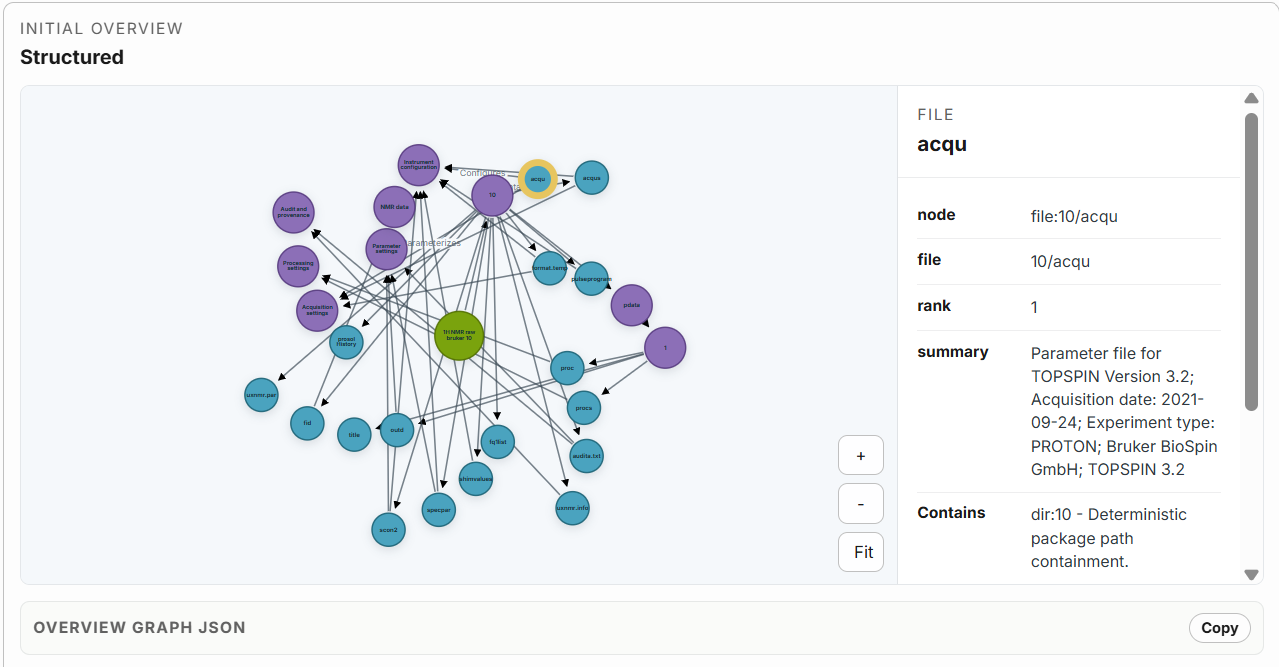
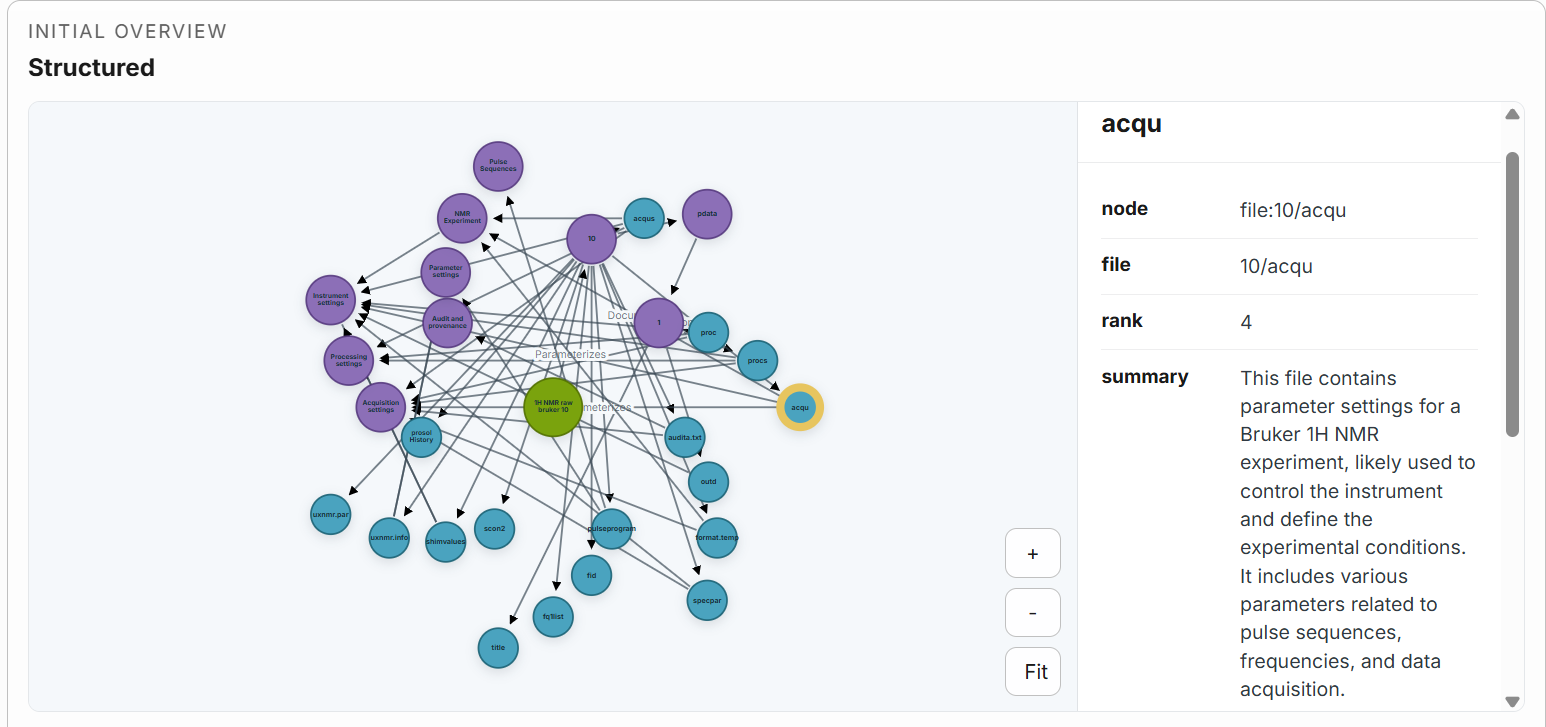
feat: enhance text-quality gate functionality with manual line protection and update dataset overview figure description

diff --git a/docs/thesis/sections/04_methodical_approach.tex b/docs/thesis/sections/04_methodical_approach.tex
@@ -115,15 +115,22 @@ The score is reduced for lines dominated by digits or symbols, dense strings wit
 These features are detected with regular-expression patterns and character-level statistics and are translated into additive score contributions.
 Textual and structured metadata features add to the score, while noise-like features subtract from it.
 A line is kept only if this final score reaches the configured threshold.
+Before the drop decision is applied, users can manually protect individual lines in the preview.
+Protected lines are retained for downstream chunking even if the heuristic gate would otherwise classify them as noise.
+The gate parameters are also exposed in the interface.
+Users can adjust the symbol-ratio threshold, digit-ratio threshold, minimum keep-score threshold, and structured-text bonus.
+These controls make the filtering behavior tunable so preprocessing can be adapted to different types of instrument files.
 This design removes low-information technical noise while preserving readable metadata records, including Bruker-style parameter lines that contain symbols, numbers, or key-value syntax.
 
 \Cref{fig:text-quality-gate} shows the corresponding preview in the workflow interface for the Bruker acquisition-parameter file \texttt{10/acqu}.
 The preview reports the selected file, the total number of source lines, the number of filtered lines, and the number of protected lines.
-Each line is displayed with its gate decision.
+Each line is displayed with its gate decision, and individual lines can be protected before filtering is applied.
 Kept lines are shown as readable parameter records, and the decision tooltip exposes the final score together with the feature labels that contributed to it.
+The interface also exposes the main gate parameters, including the symbol-ratio threshold, digit-ratio threshold, keep-score threshold, and structured-text bonus.
 In the example, the header records and Bruker parameter assignments are kept even though they contain symbols and numeric values.
 By contrast, dense numeric array lines are marked as \texttt{DROP}.
-The figure therefore illustrates that the gate removes low-information numeric content while preserving structured acquisition metadata for downstream chunking.
+The figure therefore illustrates that the gate removes low-information numeric content while preserving structured acquisition metadata for downstream chunking and allowing manual protection where needed.
+
 
 \begin{figure}[H]
 \centering
@@ -158,17 +165,23 @@ The \ac{LLM} then proposes a structured overview from the seeded graph and the r
 The result is sanitized programmatically so that it only refers to files present in the package.
 The resulting graph overview is stored as orientation context for later workflow stages.
 
-\Cref{fig:initial-overview-graph} shows this graph in the workflow interface.
-The graph focuses on relationships between files, directories, and coarse file roles.
-It is not meant to provide comprehensive summaries of every file.
-Its purpose is to add dataset-scope context to file-level and chunk-level extraction tasks.
-This context helps the model avoid overinterpreting local resources.
-For example, a parameter file can be read as part of a raw instrument export rather than as a standalone dataset description.
+\Cref{fig:initial-overview-graph} shows the dataset-level overview generated for the \textsuperscript{1}H NMR sample dataset.
+The graph uses color to distinguish node types.
+The green central node represents the dataset root.
+Purple nodes represent subdirectories and inferred group nodes.
+Subdirectory nodes are connected to file nodes through containment relations, while group nodes represent recurring metadata roles such as acquisition settings, processing settings, instrument settings, audit information, and raw data.
+Blue nodes represent individual files.
+They contain file-local summaries and are linked both to their directory context and to relevant group nodes.
+The links from file nodes to group nodes indicate that a file documents a particular type of metadata.
+The selected file \texttt{10/acqu} is shown in the detail panel on the right.
+Its rank and summary indicate why it is considered relevant for metadata extraction: it contains acquisition parameters for the Bruker \textsuperscript{1}H NMR experiment, including pulse-sequence, frequency, and data-acquisition information.
+The figure therefore illustrates how the workflow turns file-local summaries into dataset-level orientation context before chunk-level evidence is selected.
+
 
 \begin{figure}[H]
     \centering
     \includegraphics[width=0.8\textwidth]{figures/initial-overview-graph.png}
-    \caption{Workflow preview of the dataset-level overview graph for the \textsuperscript{1}H NMR sample dataset.}
+    \caption{Workflow preview of the dataset-level overview graph for the \textsuperscript{1}H NMR sample dataset. The green node represents the dataset root, purple nodes represent subdirectories and metadata-role groups, and blue nodes represent files. The detail panel shows the ranked summary for the selected acquisition-parameter file \texttt{10/acqu}.}
     \label{fig:initial-overview-graph}
 \end{figure}
 
